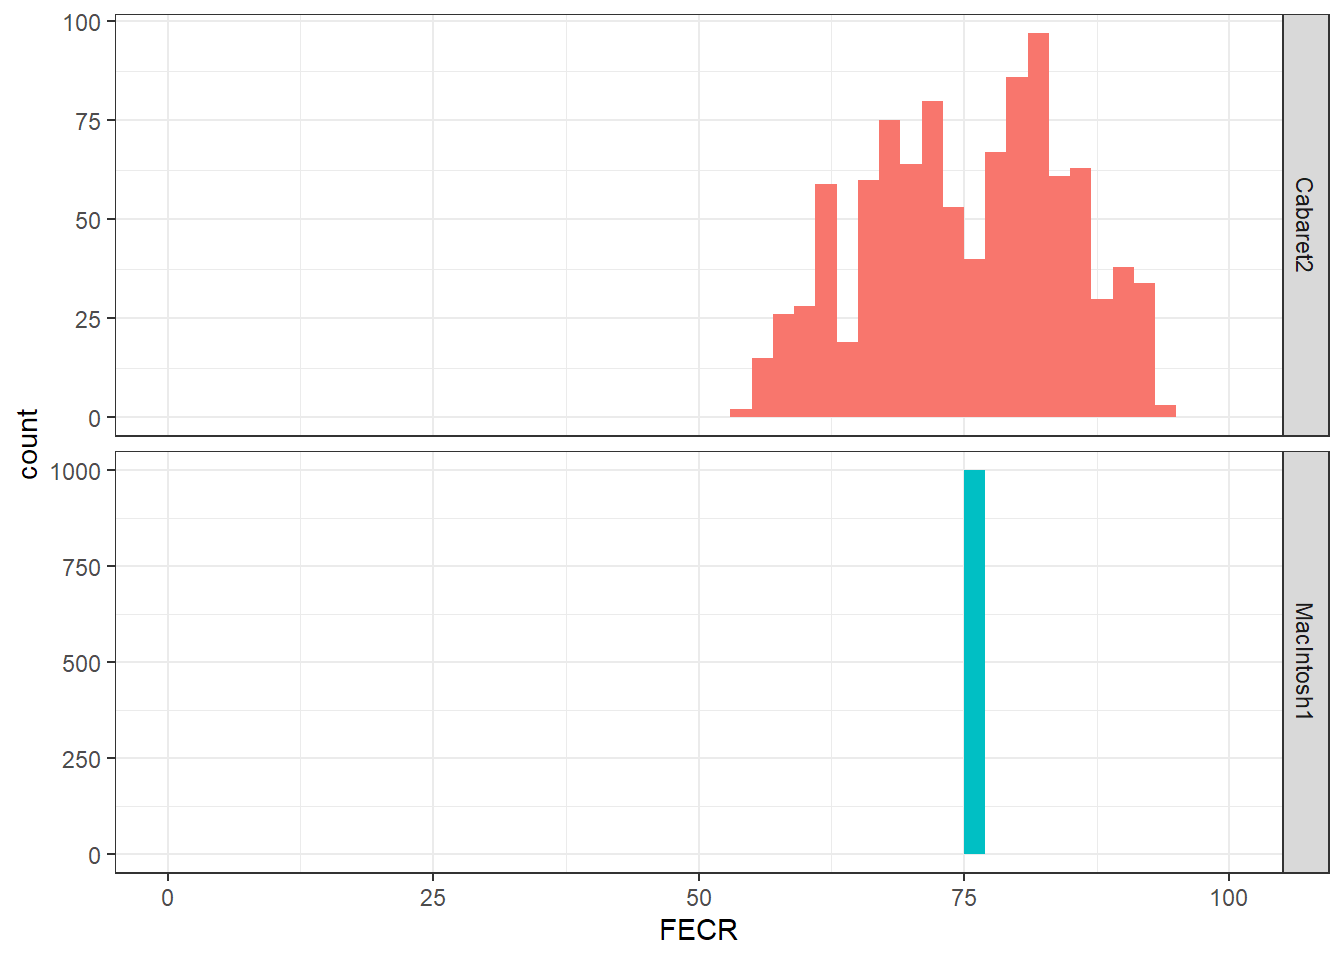
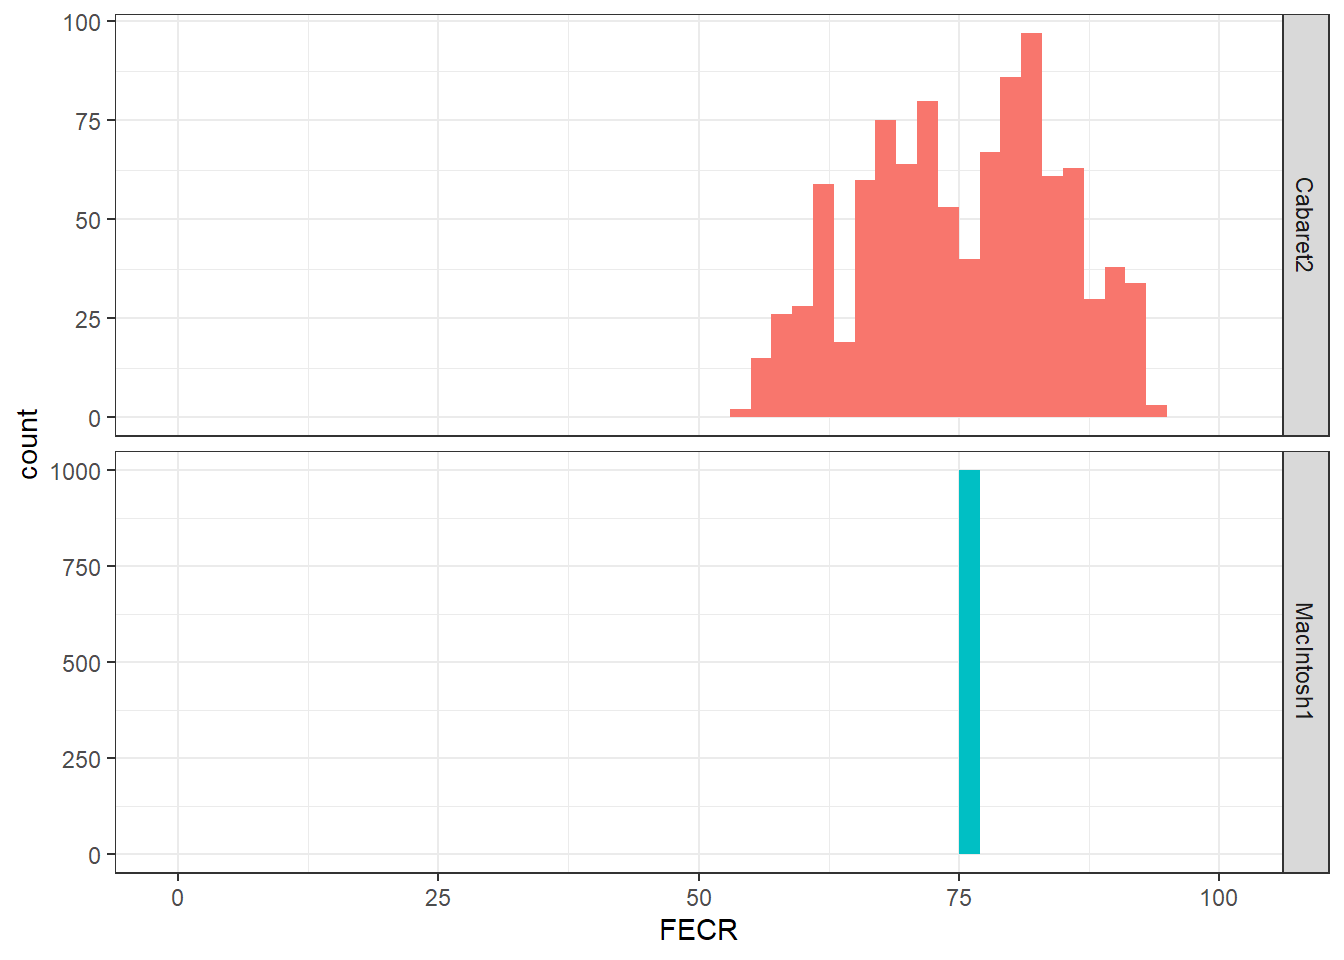
changed the order of the tabs, added a header to the index
changed the scale's limits to avoid warning messages of point not being displayed

diff --git a/our_improvements.html b/our_improvements.html
@@ -340,20 +340,20 @@ div.tocify {
     Improvements from Cabarret &amp; Berrag (2004)
   </a>
 </li>
-<li>
+      </ul>
+      <ul class="nav navbar-nav navbar-right">
+        <li>
   <a href="https://github.com/R-KenK/FECR">
     <span class="fa fa-github-square"></span>
      
     FECR repository
   </a>
 </li>
-      </ul>
-      <ul class="nav navbar-nav navbar-right">
-        <li>
+<li>
   <a href="https://github.com/R-KenK/">
     <span class="fa fa-github"></span>
      
-    Github
+    Github profile
   </a>
 </li>
       </ul>
@@ -395,7 +395,8 @@ C2.mean &lt;- mean(C2)</code></pre>
 FECR(T1.mean,T2.mean,method = &quot;Kochapakdee&quot;)            # 90% in the original paper</code></pre>
 <pre><code>## [1] 89.94709</code></pre>
 <pre class="r"><code>FECR(T1,T2,C1,C2,method = &quot;Dash&quot;)                       # 90% in the original paper</code></pre>
-<pre><code>## Warning in average_if_required(arg.list): a vector of epg has been provided in place of a mean. The arithmetic mean of the vector has been used.</code></pre>
+<pre><code>## Warning in average_if_required(arg.list): a vector of epg has been provided in
+## place of a mean. The arithmetic mean of the vector has been used.</code></pre>
 <pre><code>## [1] 89.47058</code></pre>
 <pre class="r"><code>FECR(T2 = T2.mean,C2 = C2.mean,method = &quot;Coles&quot;)        # 86% in the original paper</code></pre>
 <pre><code>## [1] 85.47401</code></pre>
@@ -457,10 +458,12 @@ FECR(T1.new,T2.new,C1.new,C2.new,method = &quot;Cabaret2&quot;,compute.CI = TRUE
 ##   350.0   450.0   550.0   726.7   900.0  1750.0</code></pre>
 <p>And neither have methods based on group-averaged EPG</p>
 <pre class="r"><code>FECR(T1.new,T2.new,C1.new,C2.new,method = &quot;Dash&quot;)                       # 90% in the original paper</code></pre>
-<pre><code>## Warning in average_if_required(arg.list): a vector of epg has been provided in place of a mean. The arithmetic mean of the vector has been used.</code></pre>
+<pre><code>## Warning in average_if_required(arg.list): a vector of epg has been provided in
+## place of a mean. The arithmetic mean of the vector has been used.</code></pre>
 <pre><code>## [1] 89.47058</code></pre>
 <pre class="r"><code>FECR(T2 = T2.new,C2 = C2.new,method = &quot;Coles&quot;)        # 86% in the original paper</code></pre>
-<pre><code>## Warning in average_if_required(arg.list): a vector of epg has been provided in place of a mean. The arithmetic mean of the vector has been used.</code></pre>
+<pre><code>## Warning in average_if_required(arg.list): a vector of epg has been provided in
+## place of a mean. The arithmetic mean of the vector has been used.</code></pre>
 <pre><code>## [1] 85.47401</code></pre>
 <p>More precisely, here is the bootstrapped distribution of the FECR value itself (not its confidence interval), across several reshuffling:</p>
 <pre class="r"><code>library(ggplot2)
@@ -498,9 +501,8 @@ FECR.shuffled %&gt;%
   facet_grid(method~.,scales = &quot;free&quot;)+
   geom_histogram(binwidth = 2,alpha = 80)+
   guides(fill = &quot;none&quot;)+
-  scale_x_continuous(limits = c(0,100))+
+  scale_x_continuous(limits = c(-1,101))+
   theme_bw()</code></pre>
-<pre><code>## Warning: Removed 4 rows containing missing values (geom_bar).</code></pre>
 <p><img src="our_improvements_files/figure-html/pitfall%201%20details-1.png" width="672" /></p>
 <p>We can see that, depending on how individuals in T and C are paired, Cabaret &amp; Berrag’s method leads to a FECR drawn from a bimodal distribution.</p>
 <p>Our method consistently leads to a single FECR value, close to the mean of this distribution:</p>
@@ -569,9 +571,8 @@ FECR.minus.2 %&gt;%
   facet_grid(method~.,scales = &quot;free&quot;)+
   geom_histogram(binwidth = 2,alpha = 80)+
   guides(fill = &quot;none&quot;)+
-  scale_x_continuous(limits = c(0,100))+
+  scale_x_continuous(limits = c(-1,101))+
   theme_bw()</code></pre>
-<pre><code>## Warning: Removed 4 rows containing missing values (geom_bar).</code></pre>
 <p><img src="our_improvements_files/figure-html/pitfall%202%20details-1.png" width="672" /></p>
 <p>Therefore, on top of using all the data available, our method also leads to more stable FECR values.</p>
 </div>

diff --git a/index.html b/index.html
@@ -341,20 +341,20 @@ div.tocify {
     Improvements from Cabarret &amp; Berrag (2004)
   </a>
 </li>
-<li>
+      </ul>
+      <ul class="nav navbar-nav navbar-right">
+        <li>
   <a href="https://github.com/R-KenK/FECR">
     <span class="fa fa-github-square"></span>
      
     FECR repository
   </a>
 </li>
-      </ul>
-      <ul class="nav navbar-nav navbar-right">
-        <li>
+<li>
   <a href="https://github.com/R-KenK/">
     <span class="fa fa-github"></span>
      
-    Github
+    Github profile
   </a>
 </li>
       </ul>
@@ -373,6 +373,8 @@ div.tocify {
 
 
 <p>FECR is an R package designed to implement and update several Fecal Egg Count Reduction Test methods.</p>
+<div id="installation" class="section level2">
+<h2>Installation</h2>
 <p>To install this package, you can rely on the <code>devtools</code> or <code>renv</code> packages as follow:</p>
 <pre class="r"><code># with devtools installed:
 devtools::install_github(&quot;R-KenK/FECR&quot;)
@@ -381,6 +383,7 @@ devtools::install_github(&quot;R-KenK/FECR&quot;)
 renv::install(&quot;R-KenK/FECR&quot;)</code></pre>
 <p>This website is currently in construction, and the package itself is still evolving pretty quickly.</p>
 <p>Stay tuned for more!</p>
+</div>
 
 
 

diff --git a/first_steps.html b/first_steps.html
@@ -340,20 +340,20 @@ div.tocify {
     Improvements from Cabarret &amp; Berrag (2004)
   </a>
 </li>
-<li>
+      </ul>
+      <ul class="nav navbar-nav navbar-right">
+        <li>
   <a href="https://github.com/R-KenK/FECR">
     <span class="fa fa-github-square"></span>
      
     FECR repository
   </a>
 </li>
-      </ul>
-      <ul class="nav navbar-nav navbar-right">
-        <li>
+<li>
   <a href="https://github.com/R-KenK/">
     <span class="fa fa-github"></span>
      
-    Github
+    Github profile
   </a>
 </li>
       </ul>
